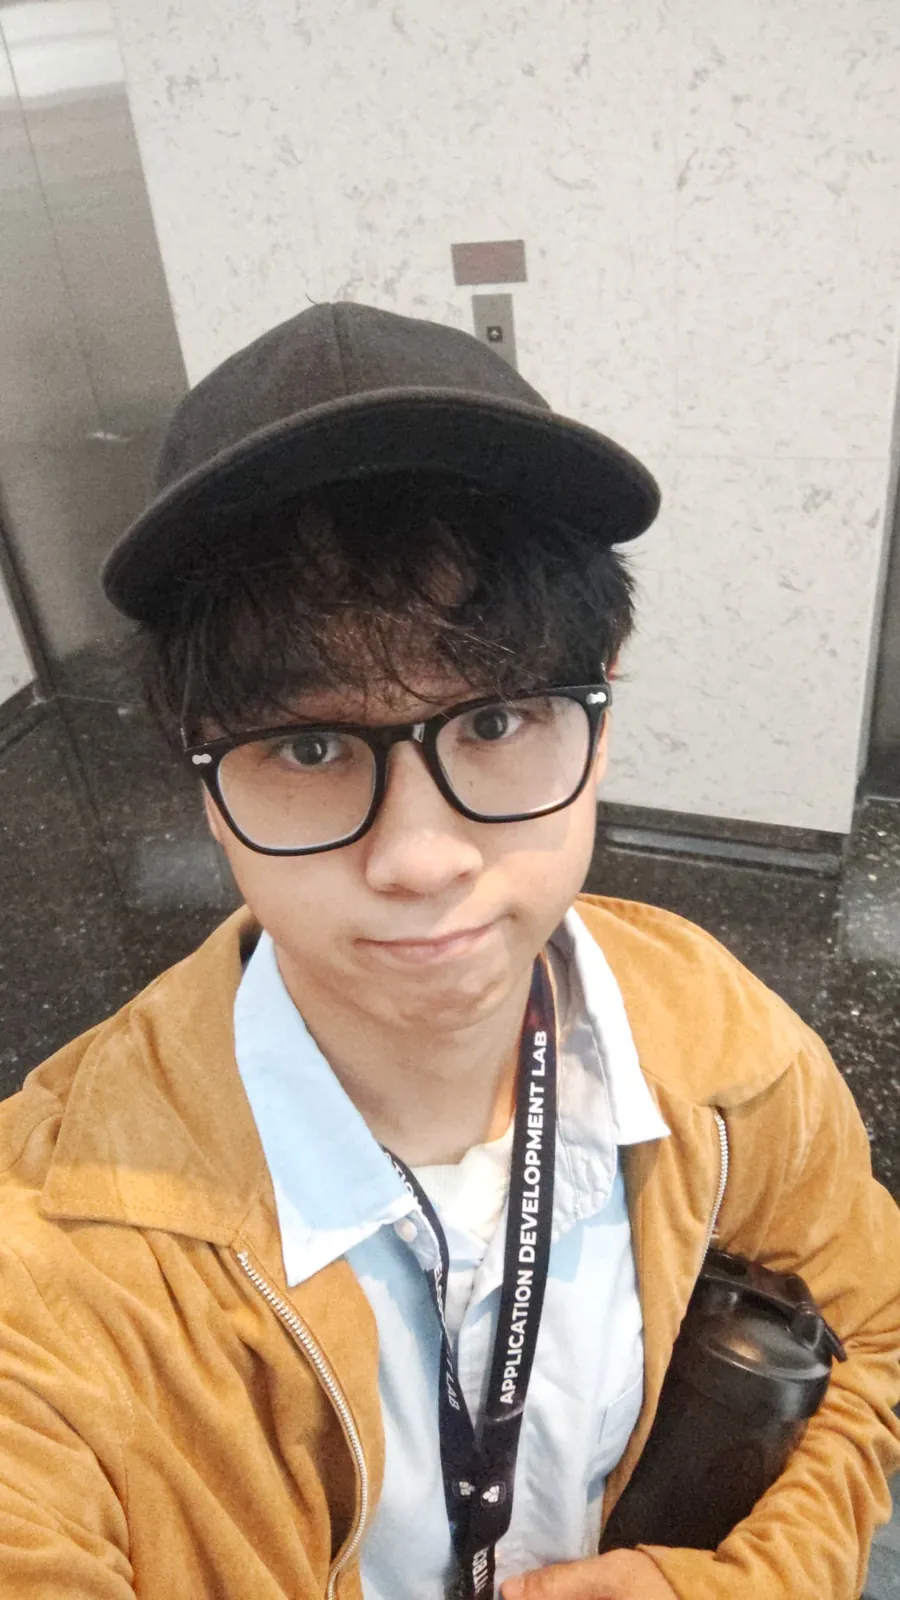
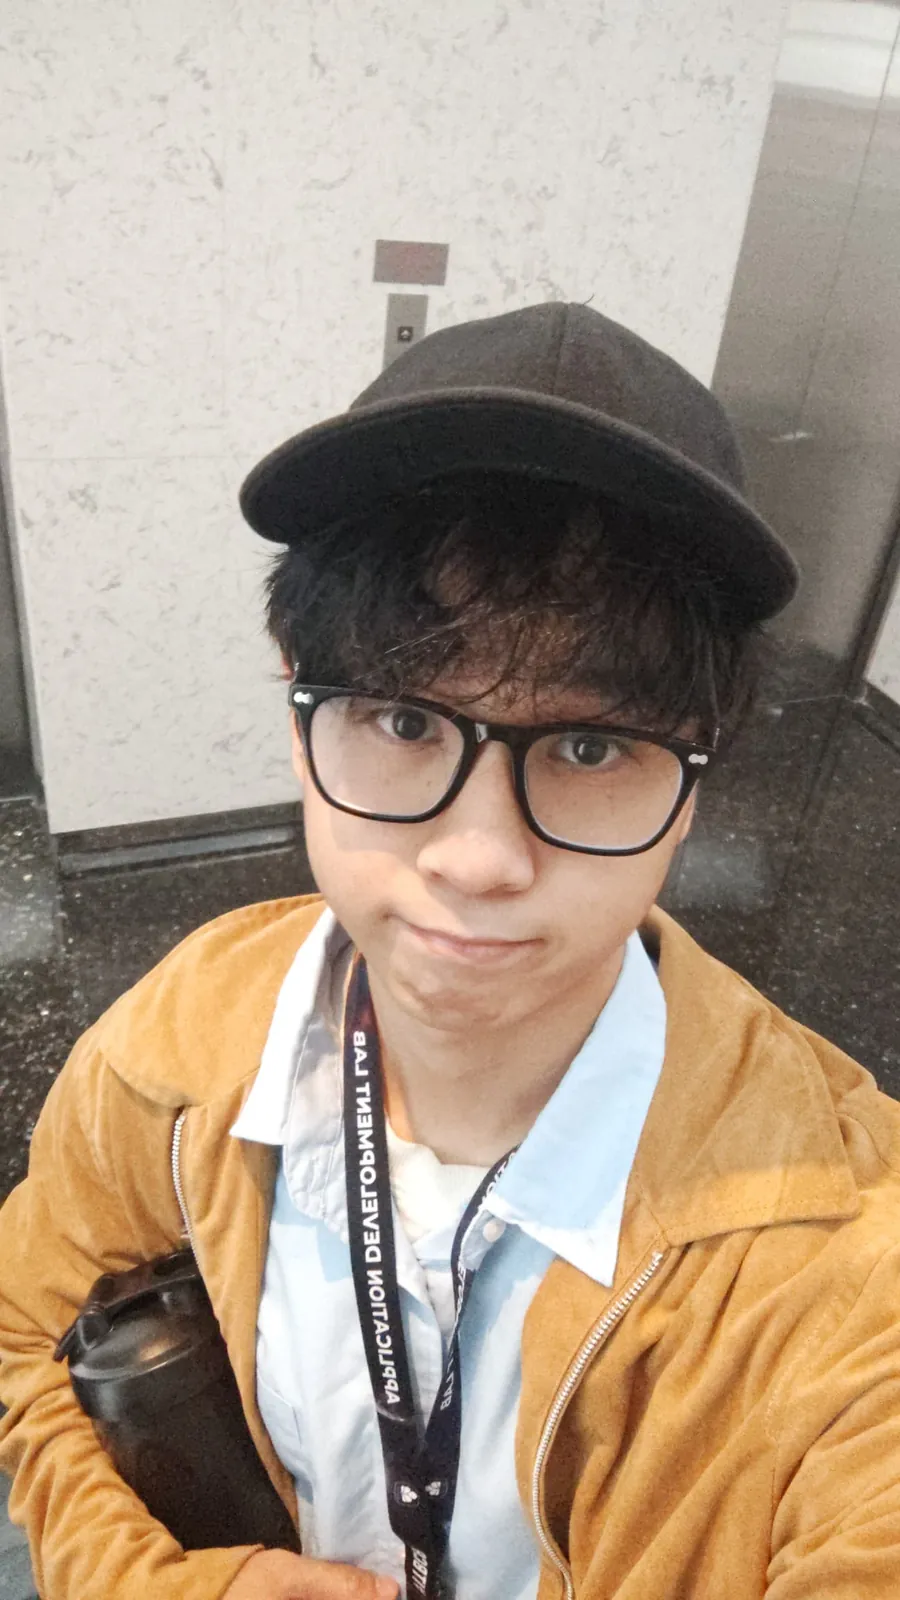
fix: revert old lenis and adjust positions for experience photos

diff --git a/src/components/ExperienceShowcase.tsx b/src/components/ExperienceShowcase.tsx
@@ -28,31 +28,31 @@ const DESKTOP_LAYOUT: {
   titleLeftVw: number[];
   cards: CardLayout[];
 } = {
-  trackWidthVw: 540,
-  titleLeftVw: [2, 112, 355],
+  trackWidthVw: 502,
+  titleLeftVw: [2, 74, 317],
   cards: [
-    // Professional 1
+    // Professional 1 — BCA
     {
-      className: 'left-[44vw] top-[62vh]',
-      imageClassName: 'left-[0vw] top-[-38vh] h-[34vh] w-[36vw]',
+      className: 'left-[30vw] top-[62vh]',
+      imageClassName: 'left-[0vw] top-[-38vh] h-[34vh] w-[min(40vw,36rem)]',
       decorativeBlocks: [
-        'left-[-36vw] top-[-34vh] h-[30vh] w-[12vw]',
-        'left-[42vw] top-[-36vh] h-[30vh] w-[11vw]',
+        'left-[-20vw] top-[-30vh] h-[30vh] w-[12vw]', // bca_1 — closer to the main photo
+        'left-[44vw] top-[-20vh] h-[30vh] w-[11vw]',  // bca_3 — tucks under KOMTIG
       ],
     },
     // Organizational 1
     {
-      className: 'left-[154vw] top-[68vh]',
+      className: 'left-[116vw] top-[68vh]',
       imageClassName: 'left-[0vw] top-[-43vh] h-[40vh] w-[36vw]',
       decorativeBlocks: [
-        'left-[-36vw] top-[-38vh] h-[28vh] w-[12vw]',
+        'left-[-26vw] top-[-42vh] h-[28vh] w-[12vw]',
         'left-[-20vw] top-[-2vh] h-[26vh] w-[12vw]',
         'left-[42vw] top-[-36vh] h-[24vh] w-[11vw]',
       ],
     },
     // Organizational 2
     {
-      className: 'left-[232vw] top-[25vh]',
+      className: 'left-[194vw] top-[25vh]',
       imageClassName: 'left-[0vw] top-[30vh] h-[40vh] w-[38vw]',
       decorativeBlocks: [
         'left-[-20vw] top-[2vh] h-[22vh] w-[11vw]',
@@ -62,7 +62,7 @@ const DESKTOP_LAYOUT: {
     },
     // Organizational 3
     {
-      className: 'left-[300vw] top-[68vh]',
+      className: 'left-[262vw] top-[68vh]',
       imageClassName: 'left-[0vw] top-[-43vh] h-[40vh] w-[40vw]',
       decorativeBlocks: [
         'left-[-16vw] top-[-6vh] h-[24vh] w-[11vw]',
@@ -72,7 +72,7 @@ const DESKTOP_LAYOUT: {
     },
     // Competitions 1
     {
-      className: 'left-[380vw] top-[68vh]',
+      className: 'left-[342vw] top-[68vh]',
       imageClassName: 'left-[0vw] top-[-43vh] h-[40vh] w-[40vw]',
       decorativeBlocks: [
         'left-[-18vw] top-[-40vh] h-[24vh] w-[12vw]',
@@ -82,7 +82,7 @@ const DESKTOP_LAYOUT: {
     },
     // Competitions 2
     {
-      className: 'left-[464vw] top-[23vh]',
+      className: 'left-[426vw] top-[23vh]',
       imageClassName: 'left-[0vw] top-[24vh] h-[48vh] w-[40vw]',
       decorativeBlocks: [
         'left-[-20vw] top-[4vh] h-[24vh] w-[12vw]',

diff --git a/src/app/providers/LenisProvider.tsx b/src/app/providers/LenisProvider.tsx
@@ -1,7 +1,7 @@
 'use client';
 
 import { useEffect } from 'react';
-import Lenis from 'lenis';
+import Lenis from '@studio-freight/lenis';
 import gsap from 'gsap';
 import { ScrollTrigger } from 'gsap/ScrollTrigger';
 
